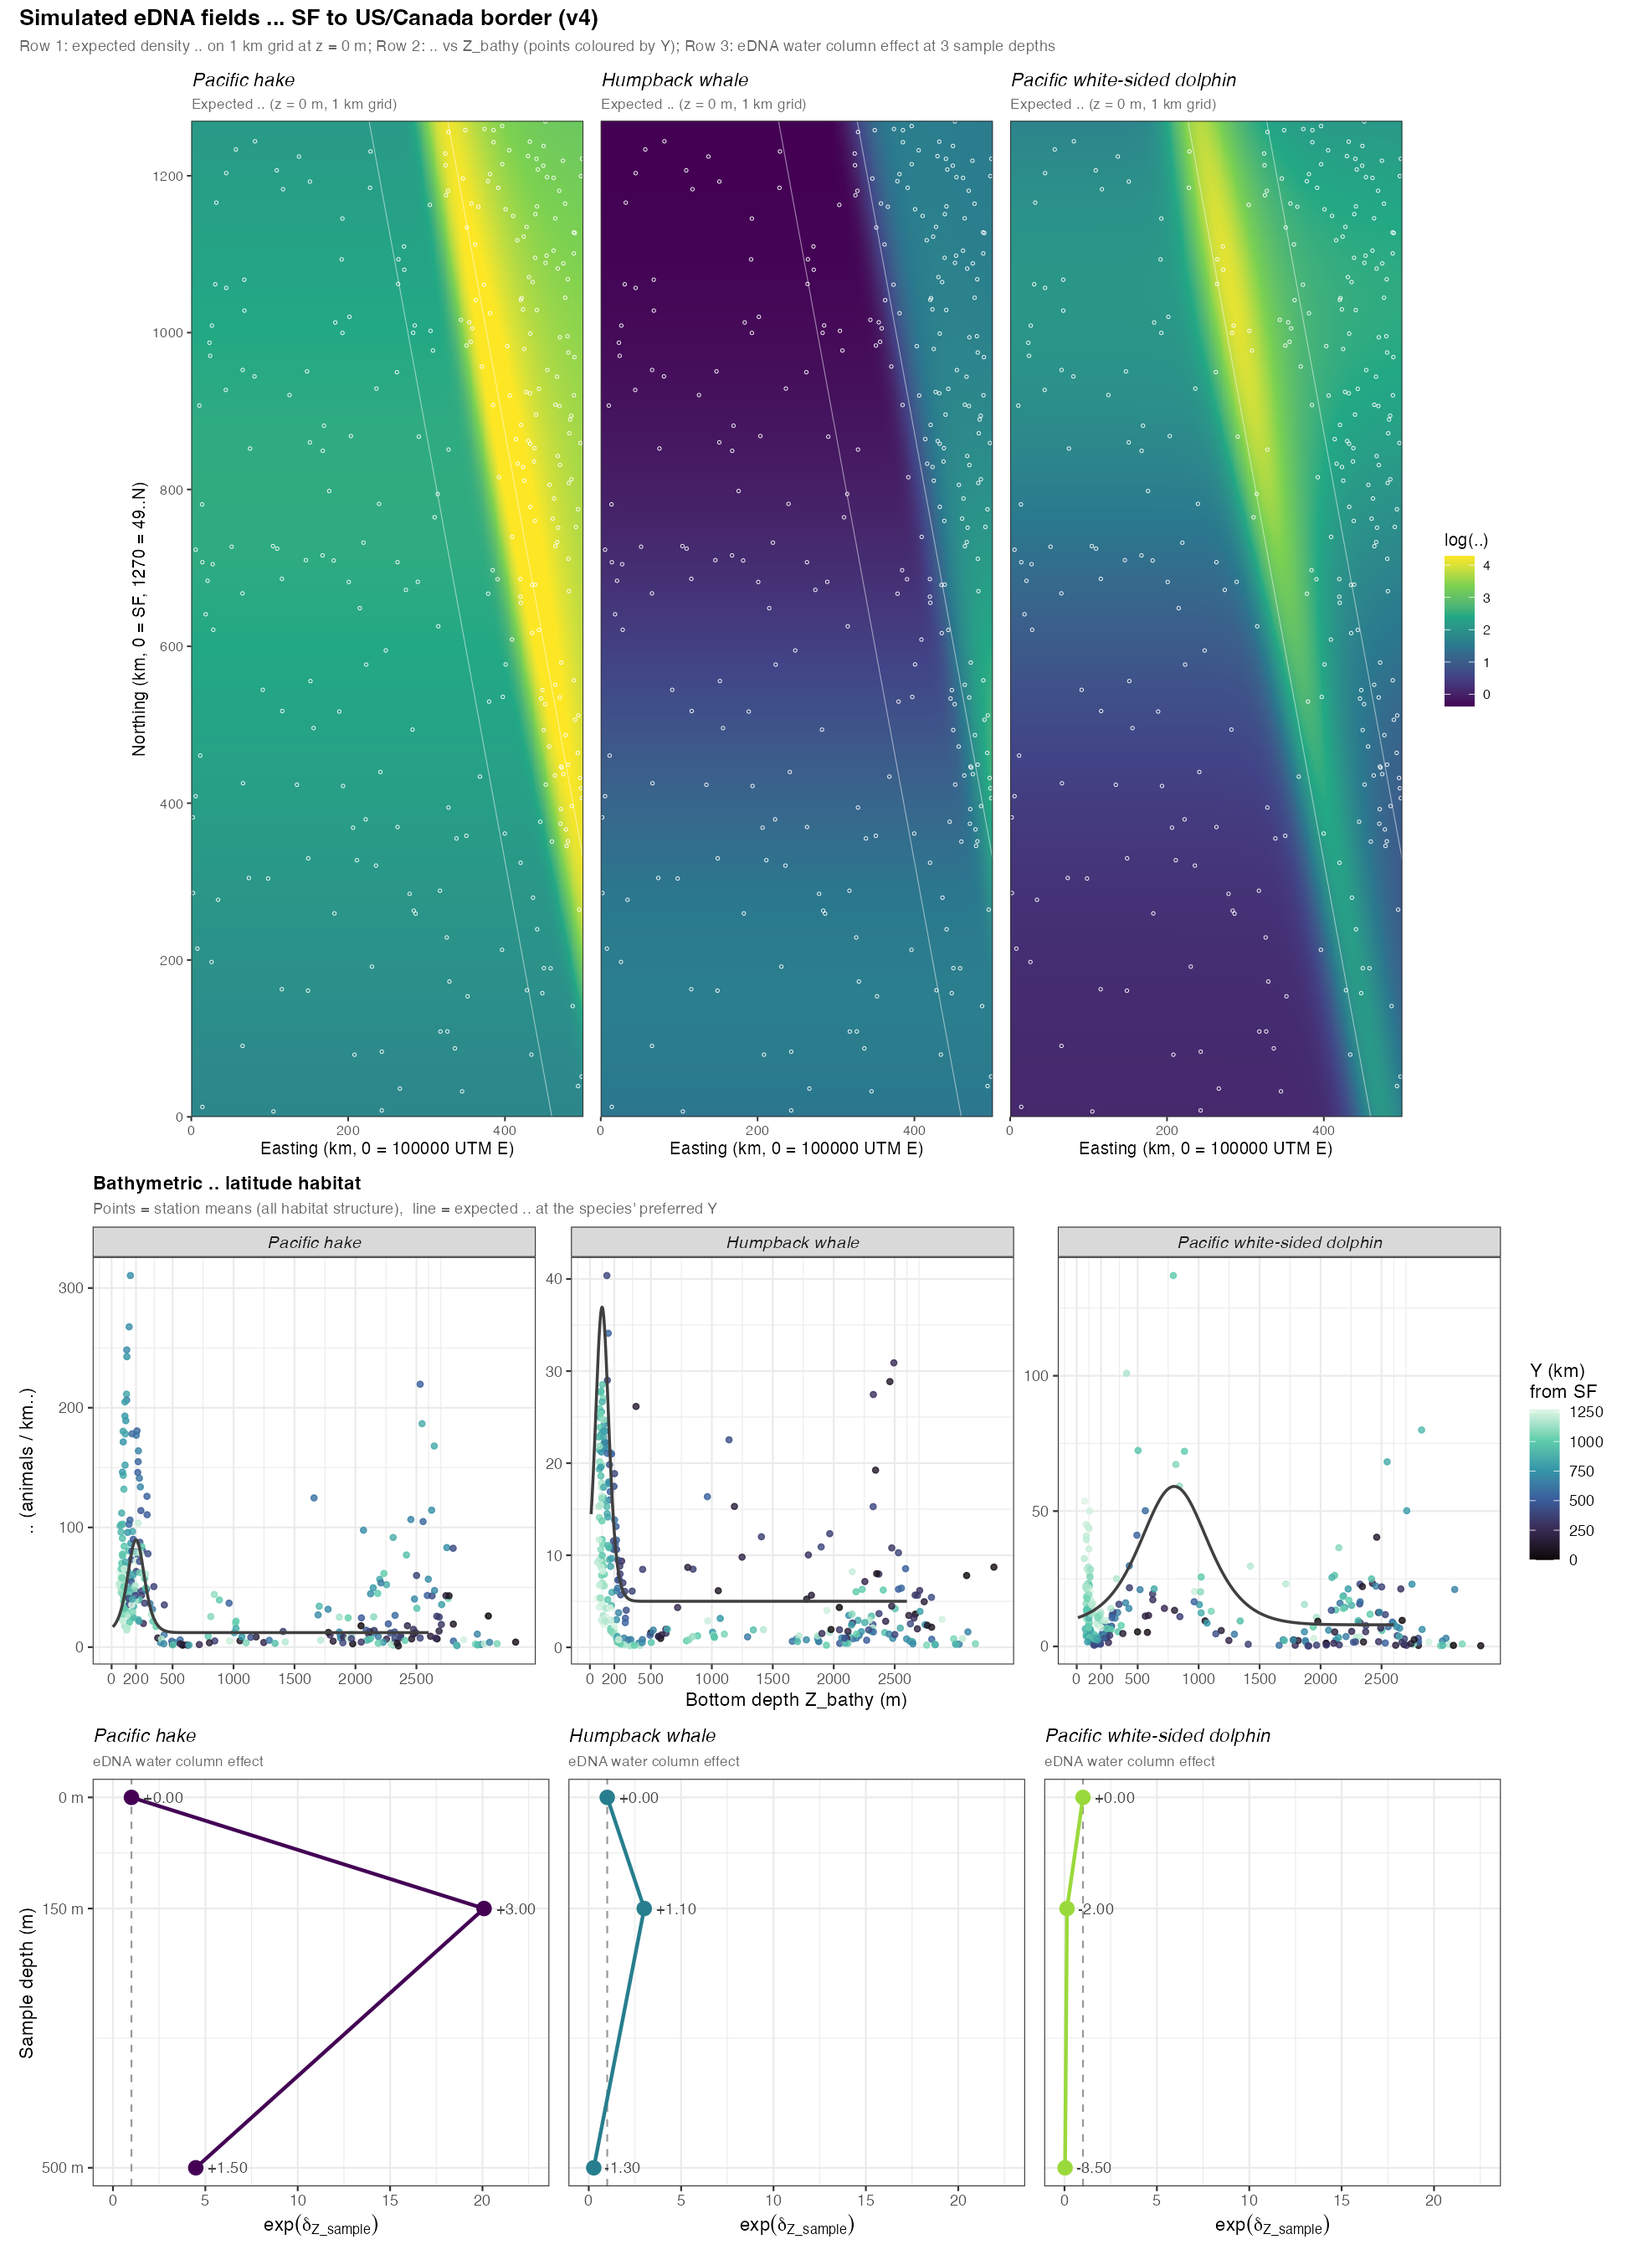
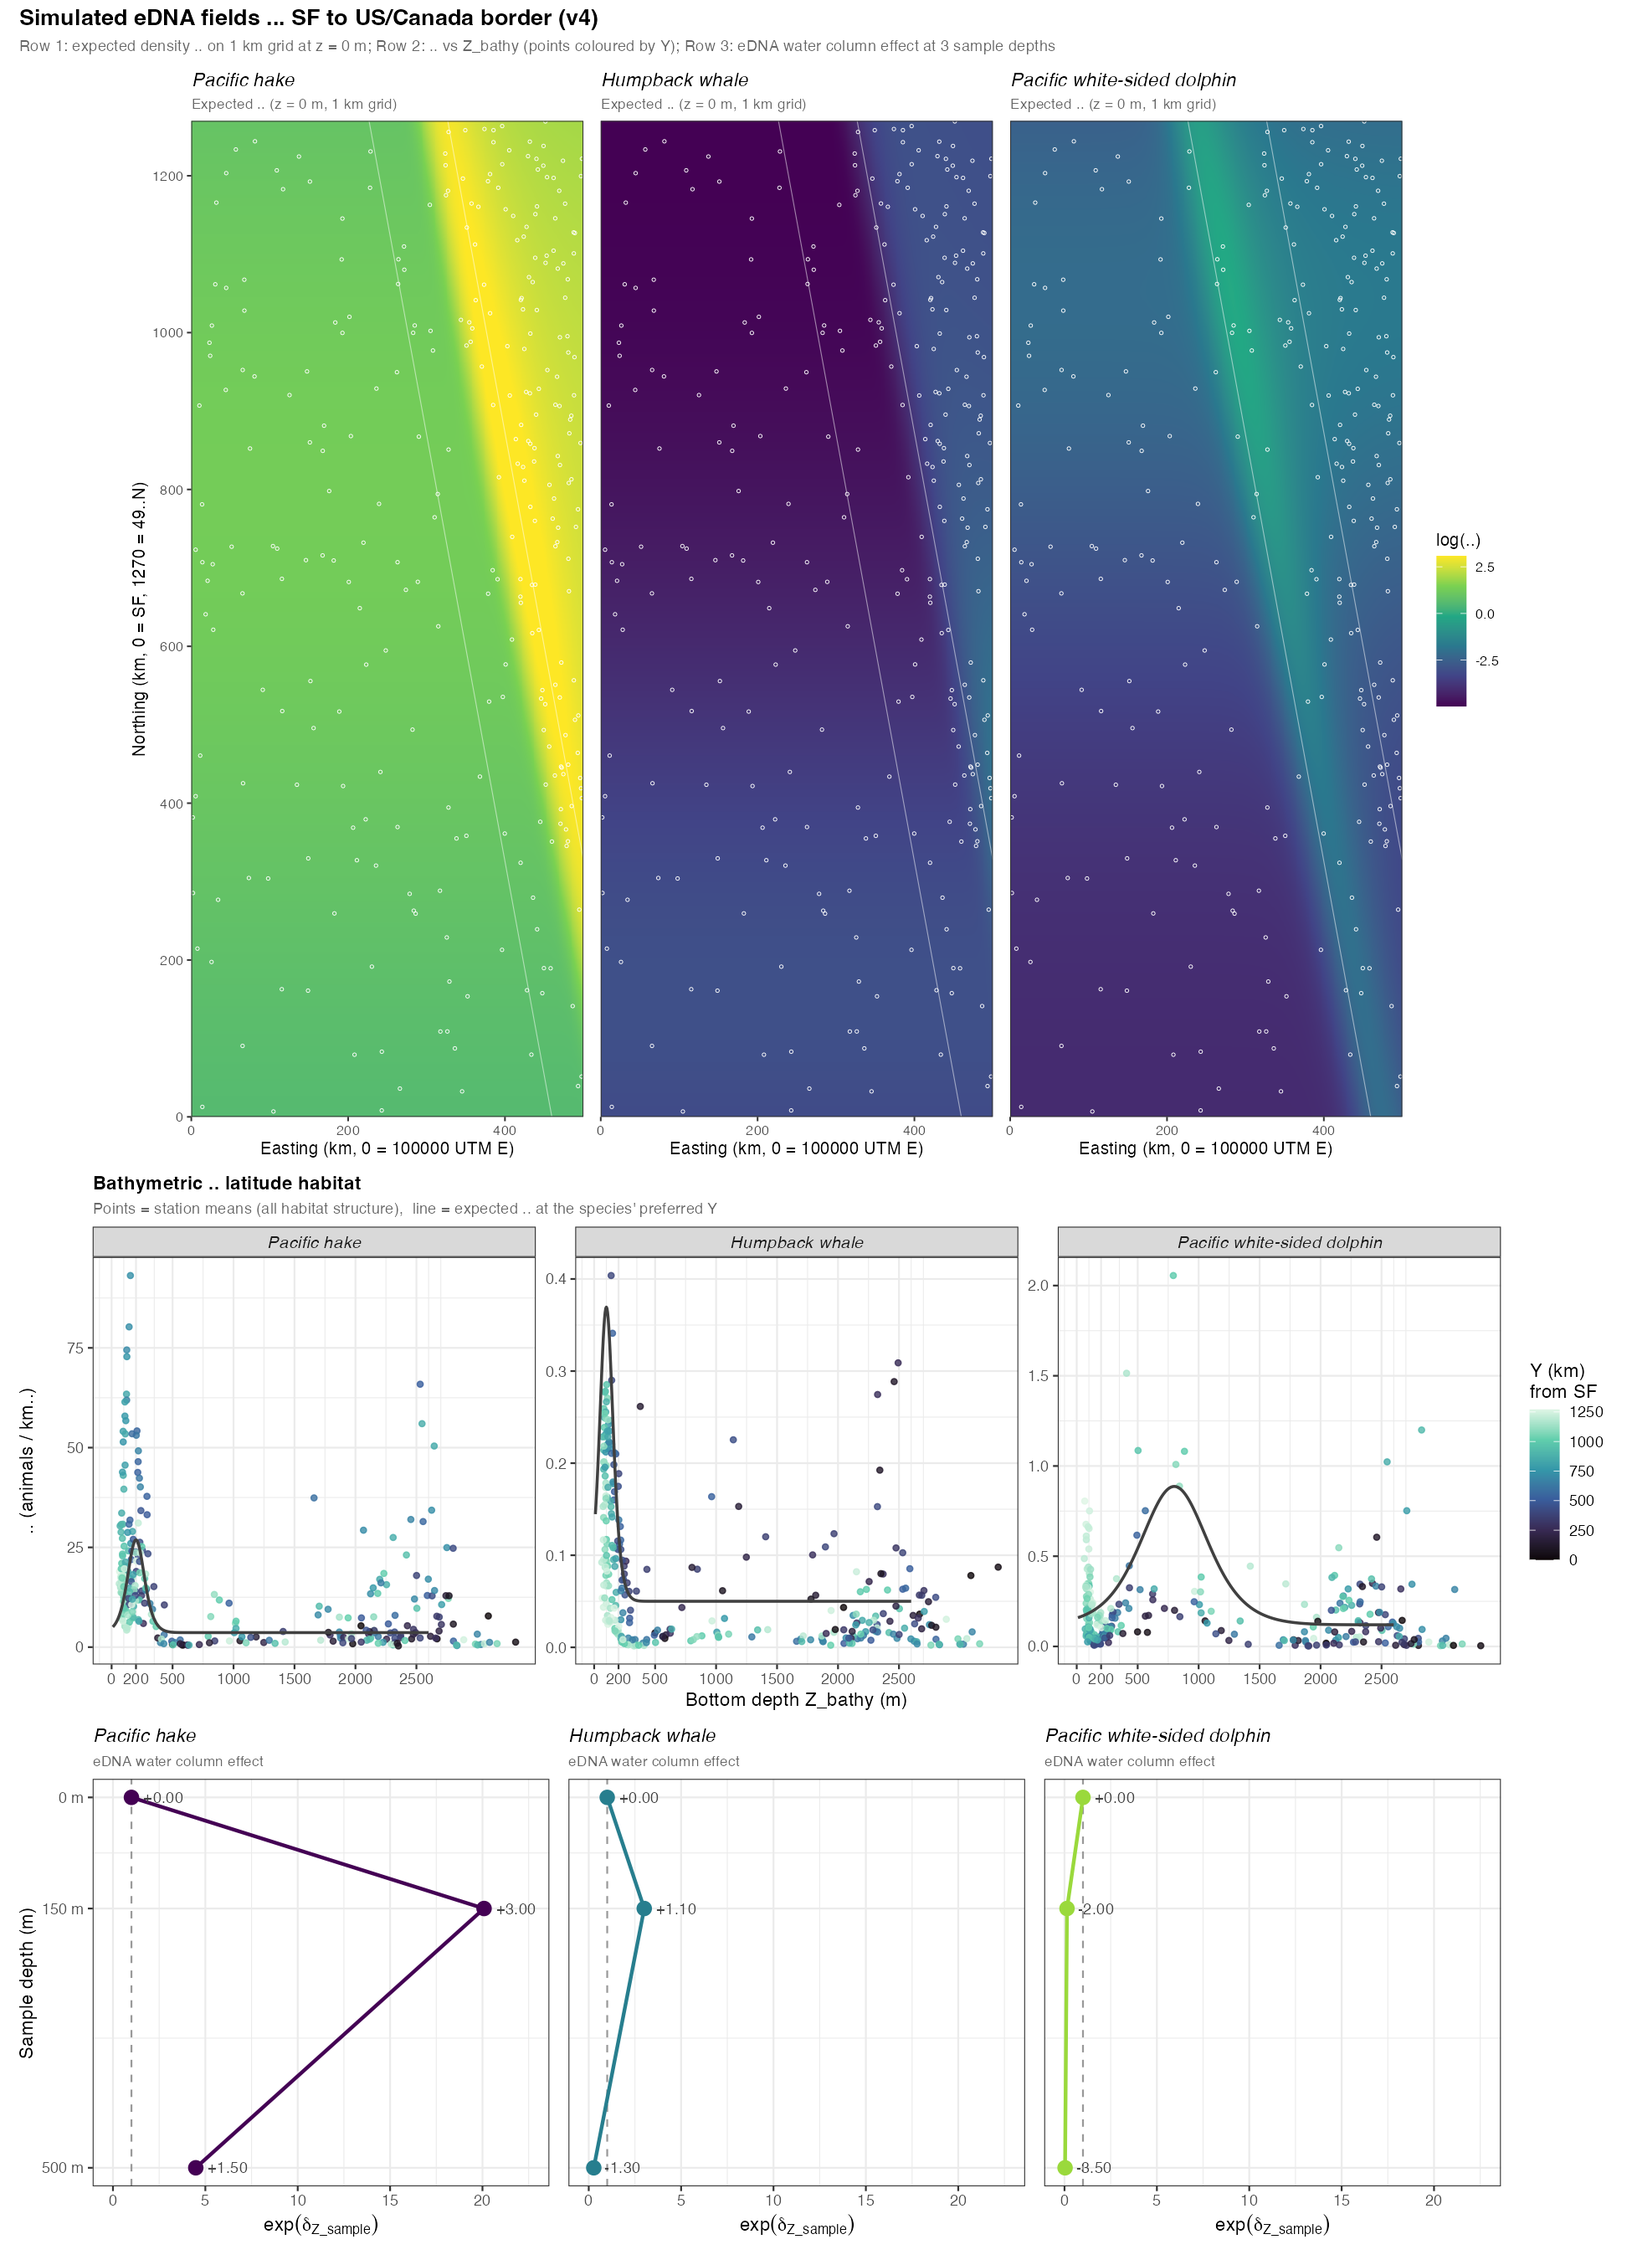
v4: retune species densities + add MB "junk" reads to match real detection rates
Real eDNA data with MARVER1 has characteristic detection rates:
  * hake:     ~95% of qPCR AND metabarcoding samples
  * humpback: ~20% of MB samples (independent of PWSD)
  * PWSD:     ~20% of MB samples (independent of humpback)

Two changes to 01_simulate_whale_edna_v4.r to match these:

1. Add a "junk" background to the MB observation model.
   Real MB reads are dominated by non-target species (plankton, other
   vertebrates, primer artifacts). The v4 sim now bites off a random
   5-95% of each MB aliquot's read depth as "junk" before running the
   target-species multinomial. This dilutes target reads enough that
   detection rates for rare species reflect realistic scenarios, and
   also mirrors how bioinformaticians actually see these datasets.

   Implementation:
     pi_junk    ~ Uniform(0.05, 0.95) per aliquot
     junk_reads ~ Binomial(read_depth, pi_junk)
     target_read_depth = read_depth - junk_reads
     mb_reads ~ Multinomial(target_read_depth, pi_edna_target)

   Junk reads are stored as mb_junk_reads and mb_pi_junk in the sim
   output for transparency, but the Stan model sees only target reads:
   mb_total = sum of target reads. qPCR is unaffected (species-specific
   primers).

2. Retune species densities.
   Before: hake log(20), humpback log(5), PWSD log(8).
   After:  hake log(6),  humpback log(0.05), PWSD log(0.12).

   Hake density is ~60-200x higher than either whale species (matching
[…]

Changed region(s): [[0.0923, 0.0311, 0.9231, 0.4978], [0.3385, 0.56, 0.5846, 0.7467], [0.6154, 0.5911, 0.6462, 0.6222]]

diff --git a/README.md b/README.md
@@ -129,7 +129,7 @@ Each script expects the **project root as the working directory**. Artifacts
   the closed-form GP mean at every cell (501 × 1271 = 637k cells) — no
   kriging.
 
-### V4 — variable per-sample replication
+### V4 — variable per-sample replication + junk reads + retuned densities
 
 - **Sampling design**: most samples still have the full 3 qPCR + 3
   metabarcoding replicates, but ~20% of samples (chosen independently for
@@ -141,11 +141,30 @@ Each script expects the **project root as the working directory**. Artifacts
   explicit `qpcr_sample_idx` / `mb_sample_idx` vectors and per-sample
   replicate counts `n_qpcr_rep_i` / `n_mb_rep_i`. The v4 format script
   is a thin pass-through to the Stan data list.
+- **"Junk" MB background**: real MARVER1 data is dominated by
+  non-target species (plankton, bacteria, other vertebrates, primer
+  artifacts). v4 models this with a lumped junk category that claims a
+  random 5–95% of each MB aliquot's read depth, leaving only the
+  remaining reads to be distributed among the three target species.
+  Junk does not appear in qPCR (species-specific primers). Stored as
+  `mb_junk_reads` and `mb_pi_junk` in the sim output for transparency;
+  the Stan model sees only target reads.
+- **Species densities retuned** so sample-level detection rates match
+  the real-data targets: hake ≈ 95% in qPCR and ~99–100% in MB
+  (dominant species), humpback whale ≈ 20% in MB, Pacific white-sided
+  dolphin ≈ 20% in MB. Humpback and PWSD distributions are independent
+  — the 20% of samples with humpback are not the same 20% with PWSD.
+  Current `mu` values: hake = log(6), humpback = log(0.05), PWSD =
+  log(0.12), giving mean densities ~12, 0.06, and 0.19 animals/km².
+  Sample-level detection rates are printed at the end of the sim run.
 - **Stan model**: no structural change from v3 — the model already
   consumed long-form data indexed by `*_sample_idx`, which naturally
   accommodates variable replication per sample. `N_qpcr_long` and
-  `N_mb_long` are no longer assumed to equal `N * 3`.
-- **Domain, bathymetry, species structure, priors**: unchanged from v3.
+  `N_mb_long` are no longer assumed to equal `N * 3`, and `mb_total`
+  is now target-species-only (junk reads are excluded before the
+  model sees them).
+- **Domain, bathymetry, species habitat structure, priors**: unchanged
+  from v3.
 
 ## Versioning convention
 
